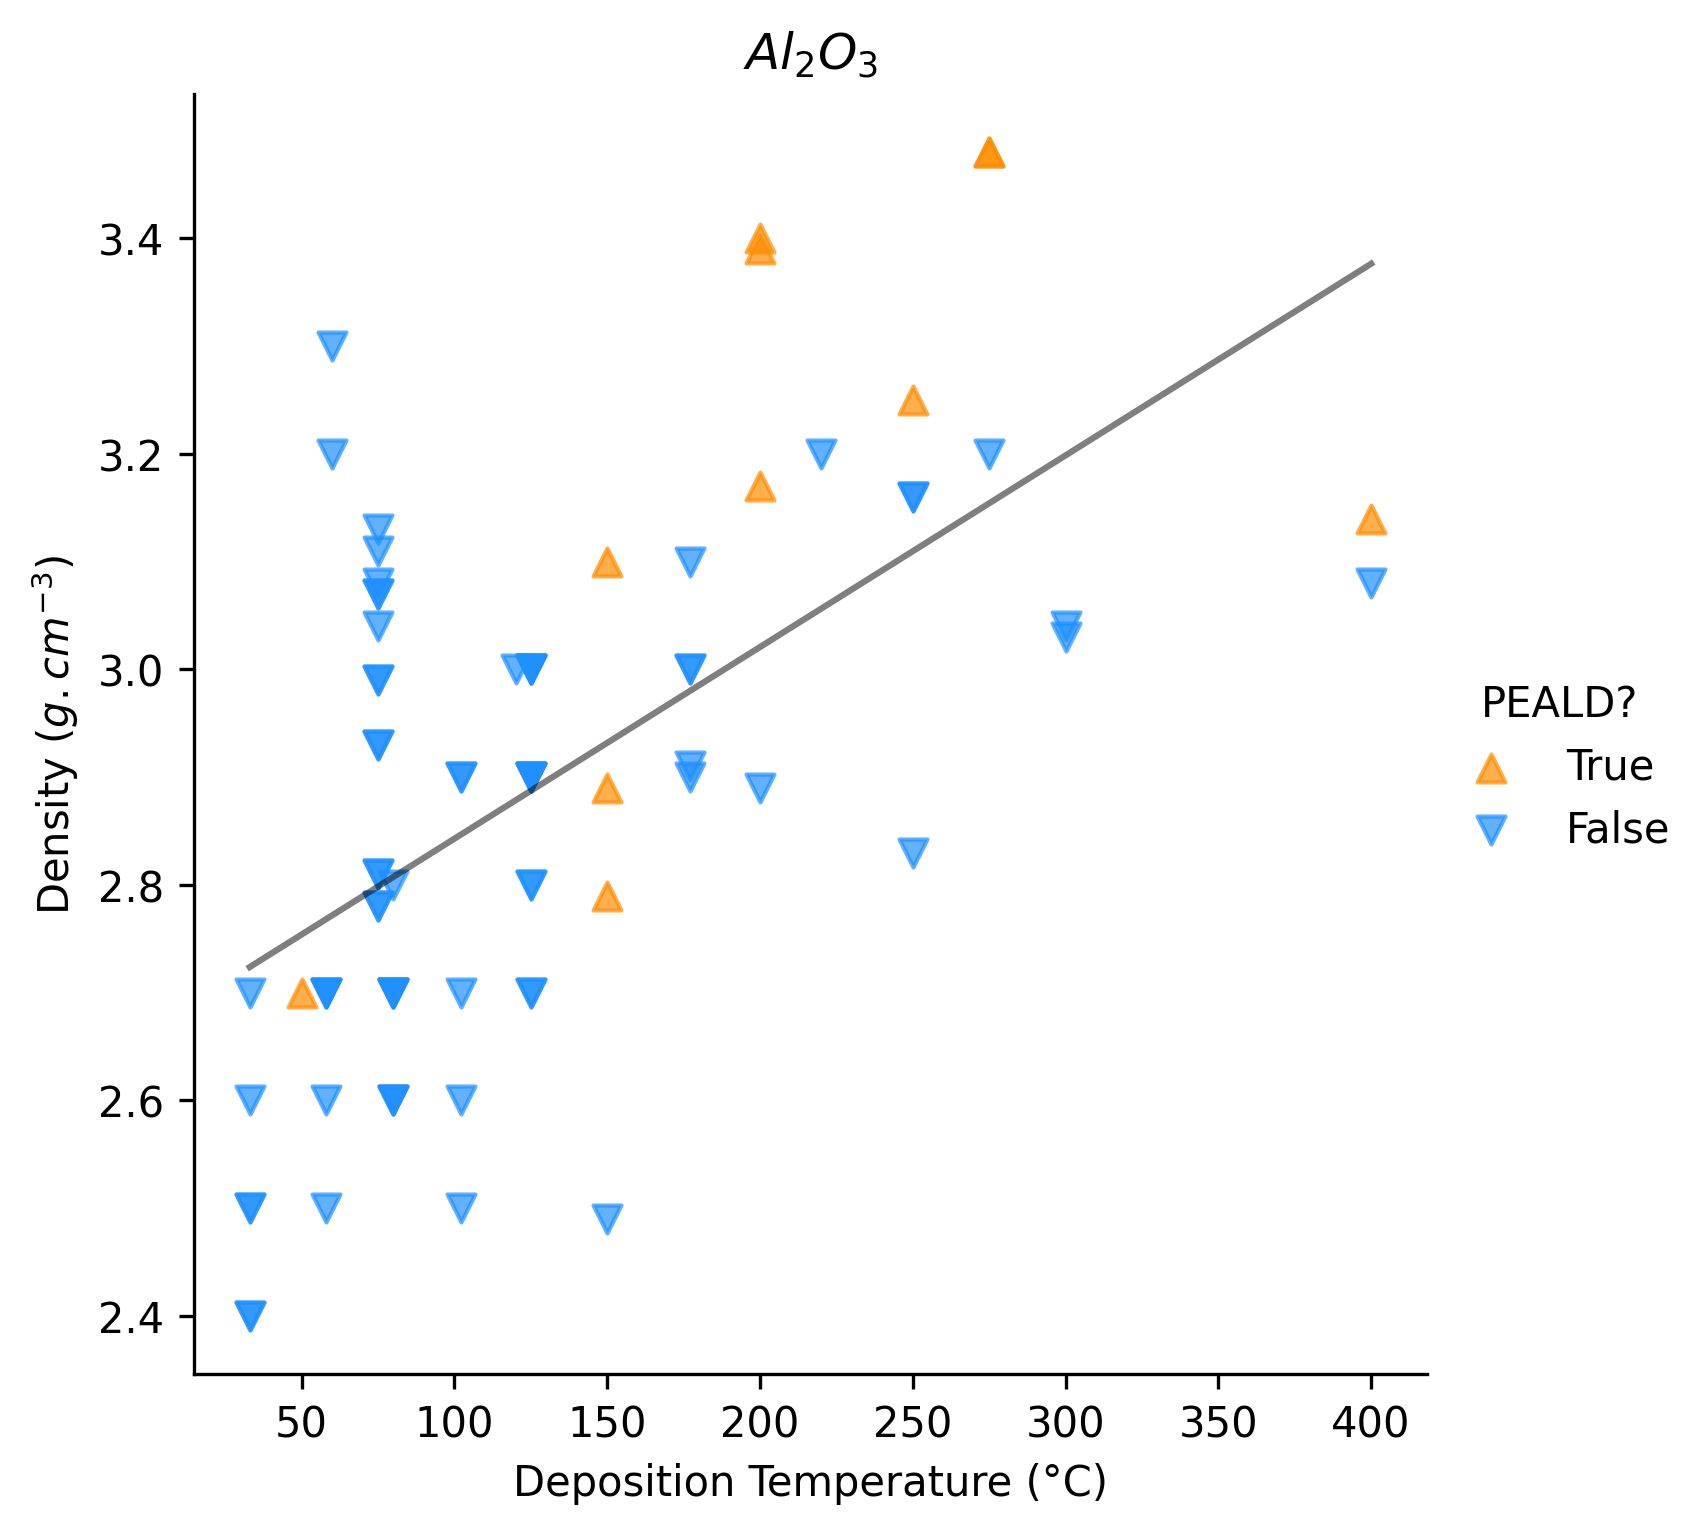
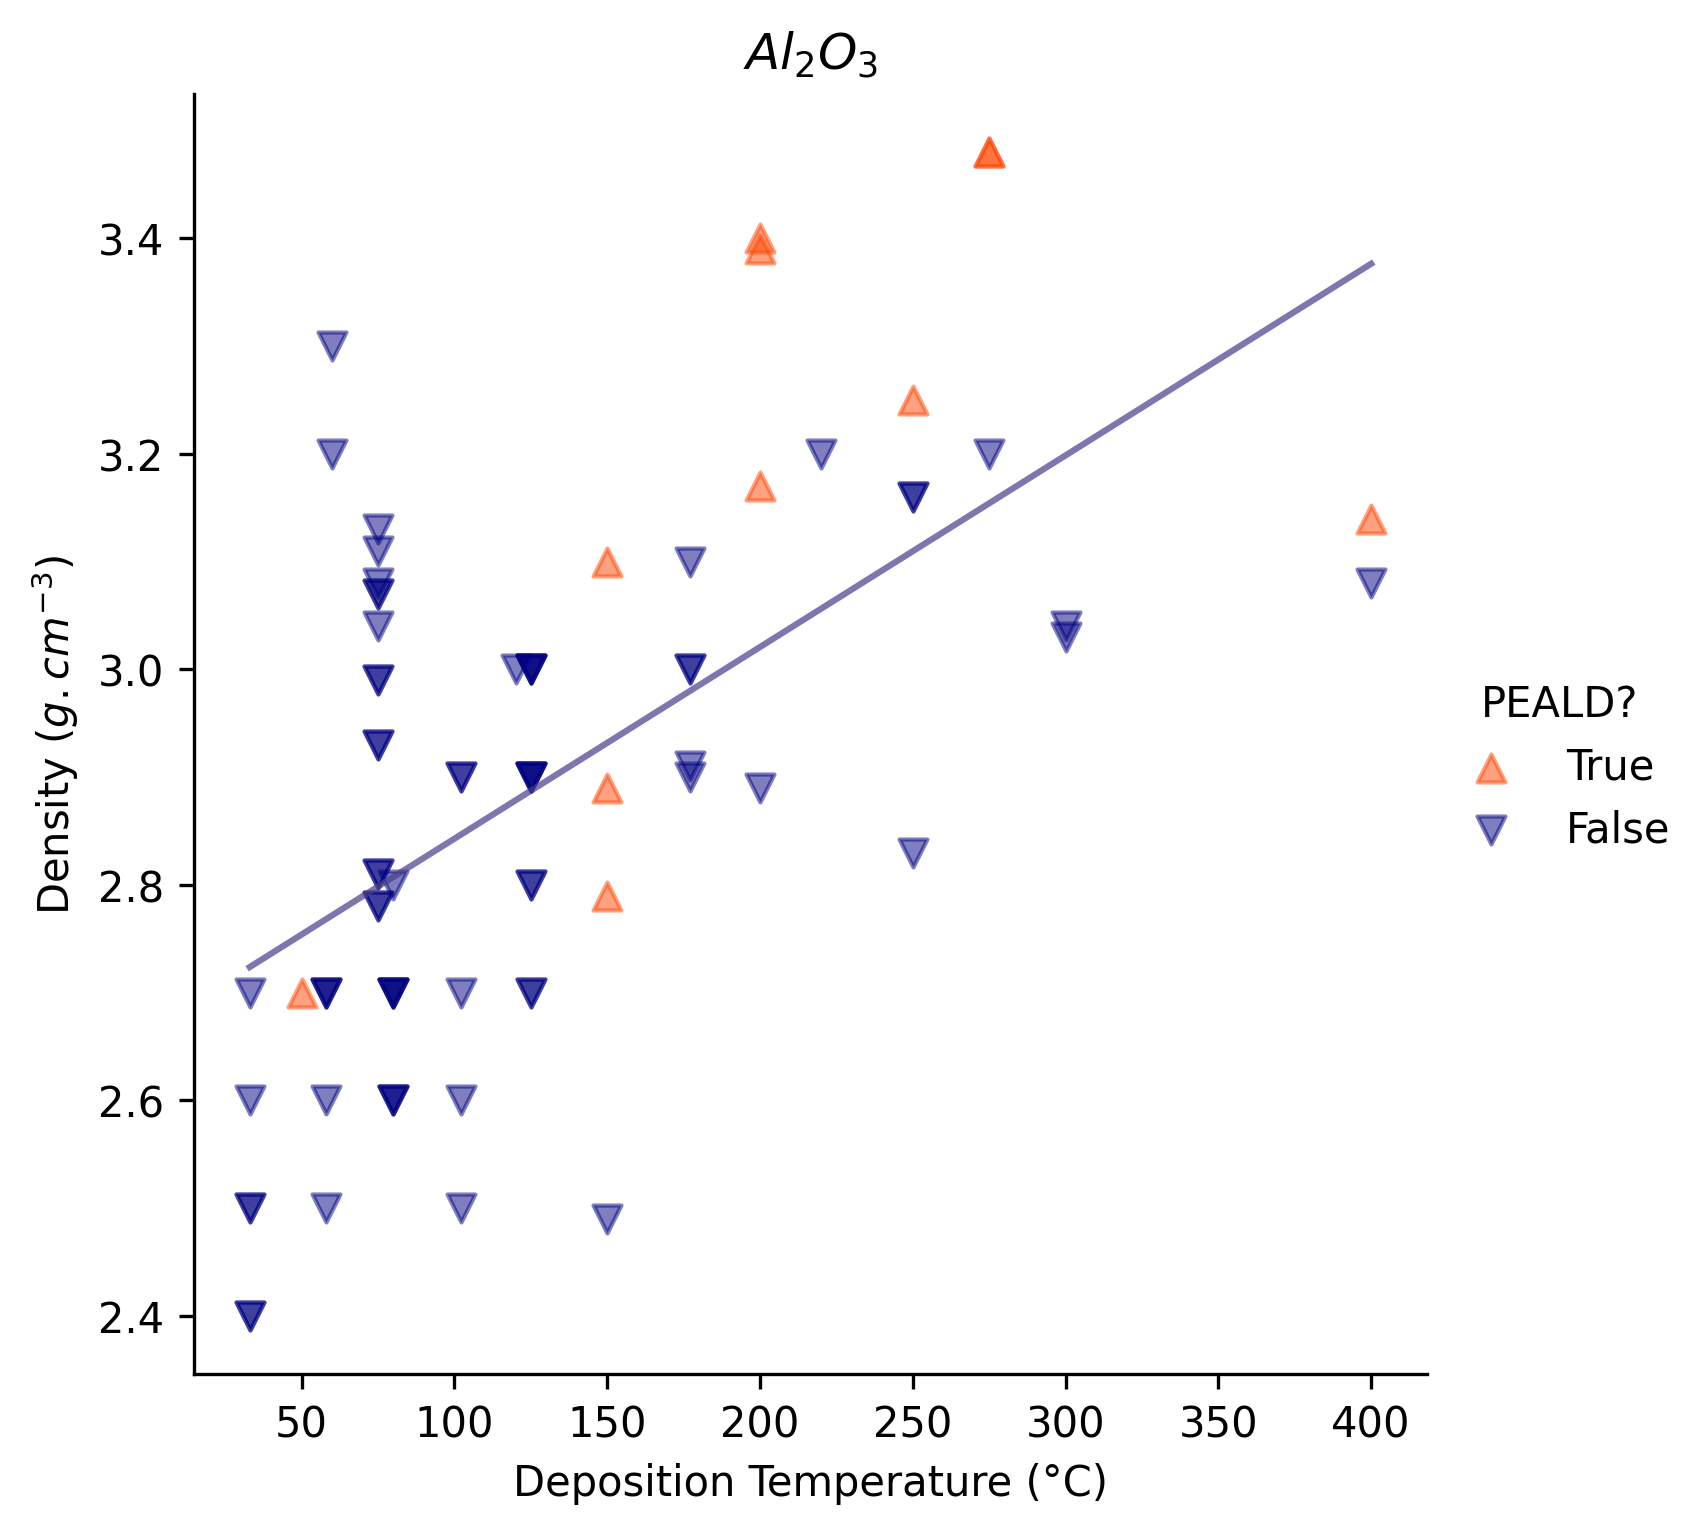
plot4 update

diff --git a/scripts/ald-density-temperature.py b/scripts/ald-density-temperature.py
@@ -21,8 +21,6 @@ sheet_id = "1CnYIYPMymwAKaVlElBk4ceNN2RtTxpKIHTzuTRjfY3s"
 sheet_name = "FilmProps"
 url = f"https://docs.google.com/spreadsheets/d/{sheet_id}/gviz/tq?tqx=out:csv&sheet={sheet_name}"
 
-# TODO: option to choose material. Al2O3, TiO2
-
 
 # LOAD DATA
 df = pd.read_csv(url)
@@ -69,15 +67,14 @@ print(df_material.info())
 
 def plot_data(df, x, y, hue, **kwargs):
 
-
     fig = sns.lmplot(data=df, x=x, y=y, 
-        hue=hue, hue_order=[True, False], markers=["^", "v"], palette=["darkorange", "dodgerblue"],
+        hue=hue, hue_order=[True, False], markers=["^", "v"], palette=["orangered", "navy"],
         ci=None, fit_reg=False,
-        scatter_kws={"s": 45, "alpha":0.7}, 
+        scatter_kws={"s": 45, "alpha":0.5}, 
         line_kws={"lw":1.5, "alpha":0.5})
 
     sns.regplot(data=df, x=x, y=y, scatter=False, ci=None, 
-        line_kws={"lw":1.5, "alpha":0.5, "color":"k"}).set(title=daz.create_latex_labels(kwargs.get("title")))
+        line_kws={"lw":1.5, "alpha":0.7, "color":"darkslateblue"}).set(title=daz.create_latex_labels(kwargs.get("title")))
 
     return fig
 
